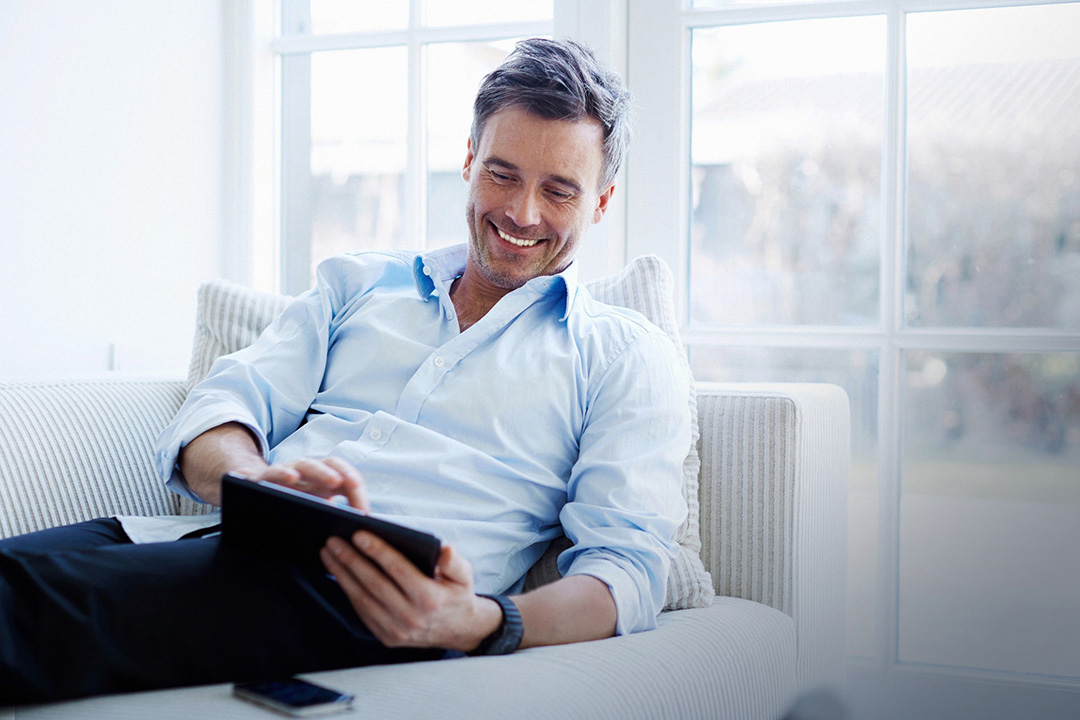
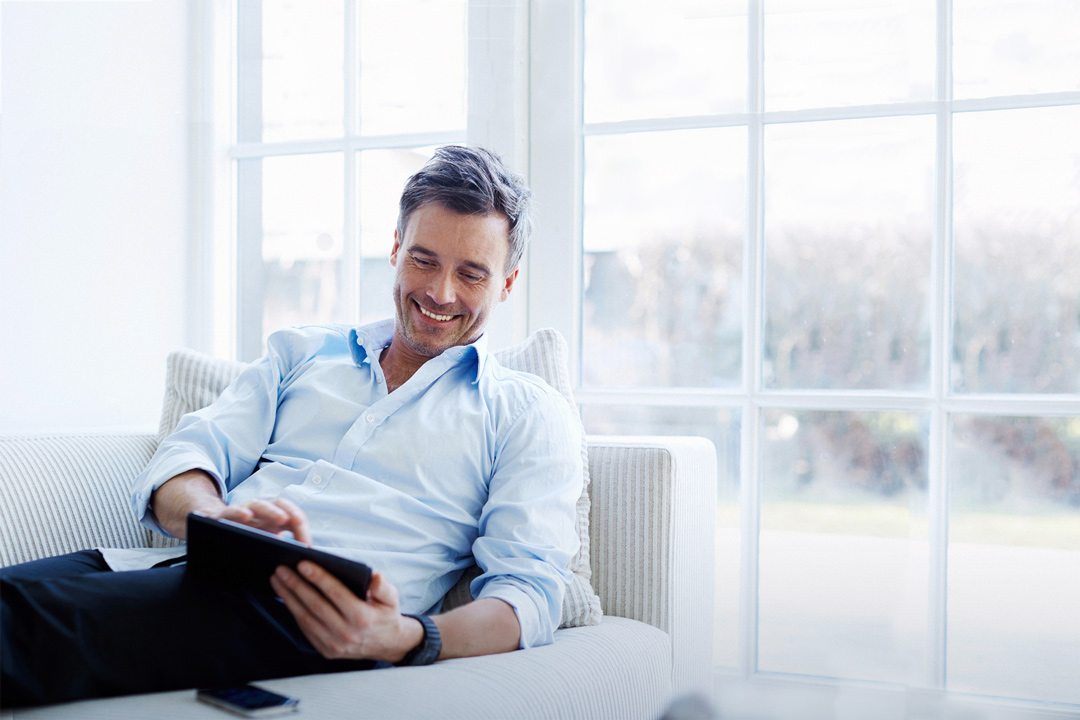
Updated markers and images, sliders autoplay

diff --git a/src/templates/floor-plans.html b/src/templates/floor-plans.html
@@ -70,7 +70,7 @@
   </form>
   <div class="floorplansTable--table table not-selective">
     <div class="table--row row_head">
-      <div class="table--cell cell_head column col-1">Floor Plan* #</div>
+      <div class="table--cell cell_head column col-1">Floor Plan*</div>
       <div class="table--cell cell_head column col-2">Bedrooms</div>
       <div class="table--cell cell_head column col-3">Bathroom</div>
       <div class="table--cell cell_head column col-4">Sq<i>uare</i> F<i>ee</i>t</div>
@@ -84,6 +84,6 @@
     </div>
     {% endfor %}
   </div>
-   <p class="floorplansTable--disclaimer">* These floor plans represent the majority of the floor plans that Bishops Place offers. To check on the availability of a plan, simply fill out the contact form below or call our leasing office at 860.519.5540. When inquiring about a unit please specify the representative floor plan number(s) that suit your needs.</p>
+   <p class="floorplansTable--disclaimer">* These floor plans are a sample representation of the apartment types. Please <a class="mobile-nav--link" data-scry="#contact">contact</a> Bishops Place for more available floor plans and rental information.</p>
 </div>
 </section>

diff --git a/src/templates/about.html b/src/templates/about.html
@@ -1,7 +1,7 @@
 <figure class="section--hero carousel" id="about-header">
   <div class="carousel--wrapper">
     <ul class="carousel--track">
-      <li class="carousel--slide" style="background-image: url('assets/img/carousel/man_with_tablet.jpg');background-position: top left;"></li>
+      <li class="carousel--slide" style="background-image: url('assets/img/carousel/man_with_tablet.jpg');background-position: top right;"></li>
       <li class="carousel--slide" style="background-image: url('assets/img/carousel/rendering-exterior.jpg'); background-position-y: 0%;"></li>
       <li class="carousel--slide" style="background-image: url('assets/img/carousel/friends_toasting.jpg');"></li>
       <li class="carousel--slide" style="background-image: url('assets/img/carousel/rendering-living_room.jpg');"></li>

diff --git a/src/assets/js/about.js b/src/assets/js/about.js
@@ -2,7 +2,7 @@
 
   $('.carousel').glide({
     type: 'carousel',
-    autoplay: false,
+    autoplay: 4000,
     classes: {
       base: "carousel",
       wrapper: "carousel--wrapper",
